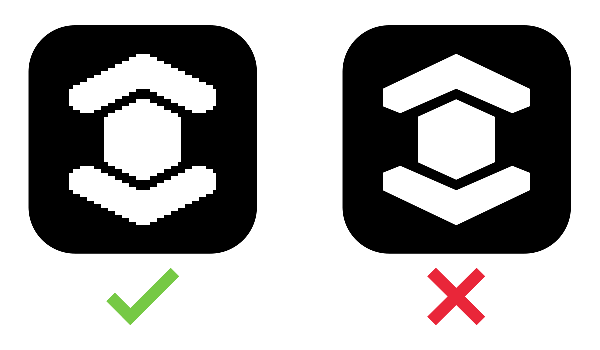
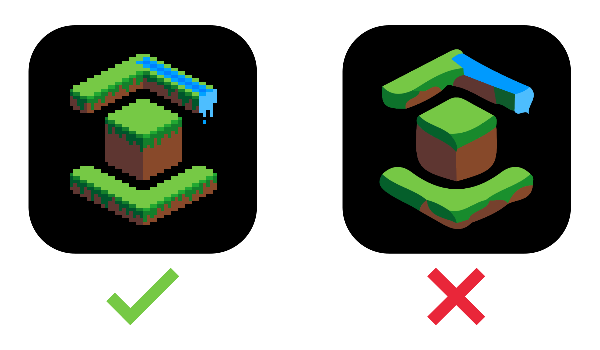
update vectors rule

Changed region(s): [[0.63, 0.1429, 0.9, 0.6571], [0.09, 0.1429, 0.36, 0.6571]]

diff --git a/.vitepress/components/SidebarItemOverride.vue b/.vitepress/components/SidebarItemOverride.vue
@@ -8,7 +8,7 @@
 
 import { computed } from "vue";
 import type { DefaultTheme } from "vitepress/theme";
-import { useSidebarControl } from "vitepress/dist/client/theme-default/composables/sidebar";
+import { useSidebarControl } from "vitepress/dist/client/theme-default/composables/sidebar.js";
 import VPLink from "vitepress/dist/client/theme-default/components/VPLink.vue";
 import VPBadge from "vitepress/dist/client/theme-default/components/VPBadge.vue";
 

diff --git a/pages/manuals/branding-guidelines.md b/pages/manuals/branding-guidelines.md
@@ -64,10 +64,10 @@ You can use a monochrome version of our logo in small spaces if using the regula
 
 <img src="/images/manuals/branding-guidelines/monochrome_logos.png" class="center">
 
-All our logos should always retain their pixel art form. Even when using the monochrome logo, don't simplify the shape into vectors.
+All our logos should always retain their pixel art form—don't simplify the shape into vectors.
 
 <img src="/images/manuals/branding-guidelines/no_vectors.png" class="center">
-<i class="center">Left: Correct depiction of the Faithful monochrome logo. Right: Incorrect depiction.</i>
+<i class="center">Left: Correct depiction of the Faithful logo. Right: Incorrect depiction.</i>
 
 Finally, our logos should always be centered based on their main hexagonal part. The numbers and symbols in the bottom-right corner should not be taken into account when positioning.
 
